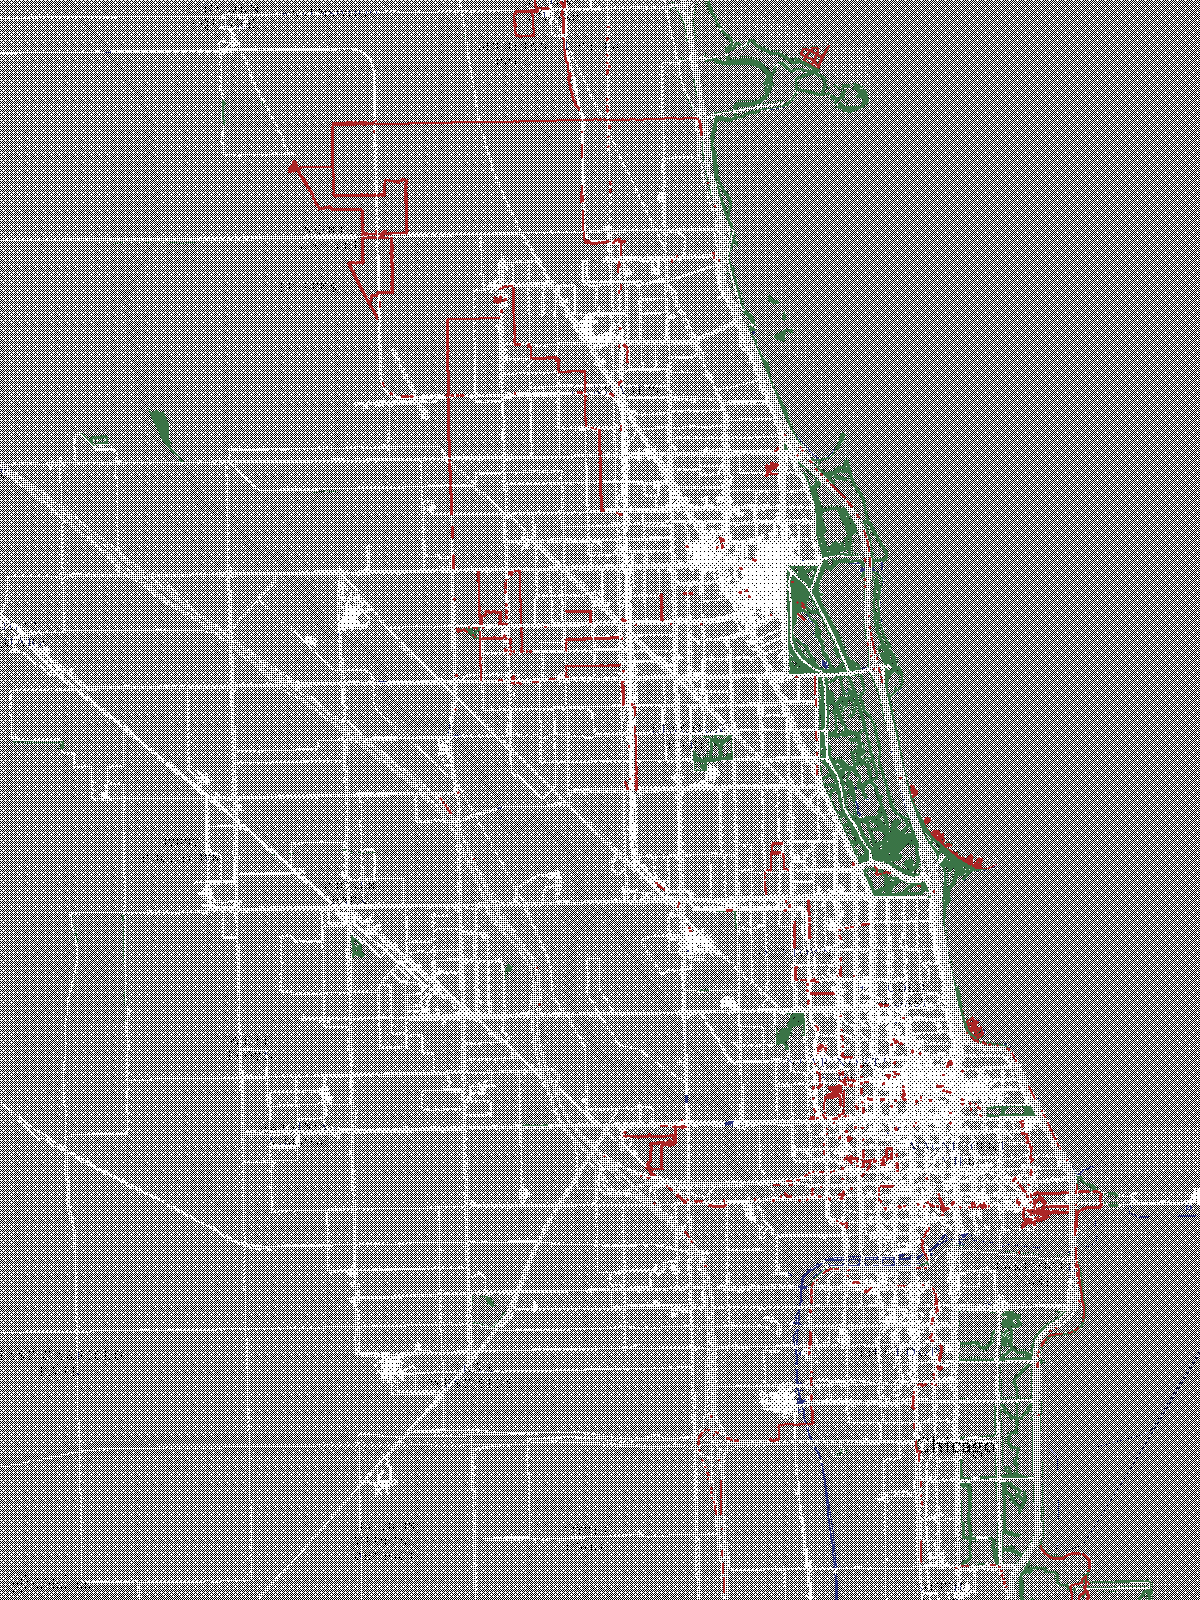
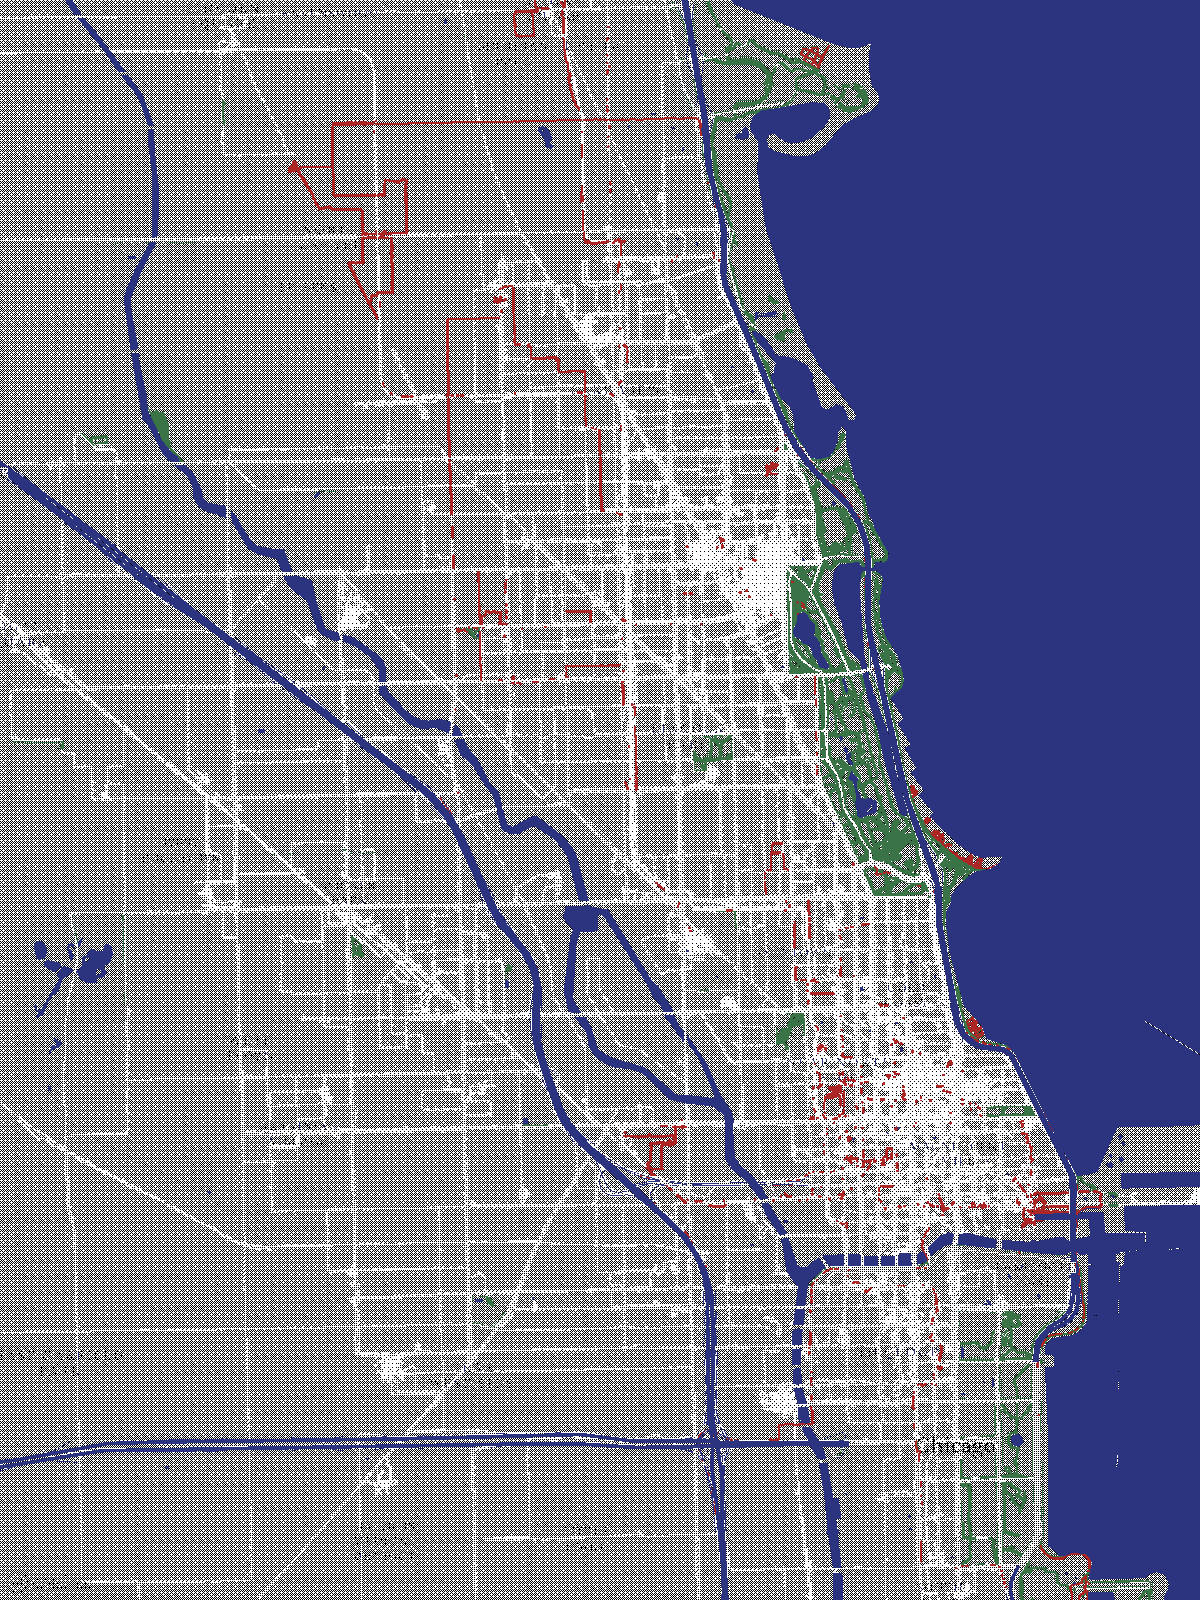
render lake/river as solid blue water (always, regardless of fog)

diff --git a/render_fog.py b/render_fog.py
@@ -41,6 +41,10 @@ DISCOVERY_LOG_PATH = HERE / "snapshots" / "discovery_log.npz"
 COLOR_FOG    = (70, 70, 70)    # NEUTRAL gray overlay for unexplored (no blue cast)
 FOG_OPACITY  = 0.55
 COLOR_RECENT = (210, 35, 35)   # last-30-day exploration tint
+COLOR_WATER  = (64, 110, 180)  # solid blue painted over all water (lake/river)
+# Water is detected in the base map by its teal-cyan hue and always shown blue
+# (no fog over it) — a lake reads as water regardless of "exploration".
+WATER_HUE_LO, WATER_HUE_HI, WATER_SAT_MIN = 100, 150, 25
 
 SSAA, SSAA_THRESH = 4, 20
 RECENT_DAYS = 30
@@ -141,7 +145,16 @@ def render(data_dir, out_path):
 
     if not BASE_MAP_PATH.exists():
         raise FileNotFoundError(f"Base map missing: {BASE_MAP_PATH}")
-    base = np.array(Image.open(BASE_MAP_PATH).convert("RGB"), dtype=np.float32)
+    base_img = Image.open(BASE_MAP_PATH).convert("RGB")
+    base = np.array(base_img, dtype=np.float32)
+
+    # Detect water in the base map by its teal-cyan hue (the lake + river).
+    bhsv = np.array(base_img.convert("HSV"))
+    water_mask = (
+        (bhsv[:, :, 0] >= WATER_HUE_LO) & (bhsv[:, :, 0] <= WATER_HUE_HI)
+        & (bhsv[:, :, 1] >= WATER_SAT_MIN)
+    )
+    log.info(f"Water: {int(water_mask.sum()):,} px")
 
     # Fog: dark overlay where NOT explored
     fog_alpha = (FOG_OPACITY * (1.0 - explored))[:, :, np.newaxis]
@@ -151,6 +164,9 @@ def render(data_dir, out_path):
     if recent is not None:
         a = recent[:, :, np.newaxis]
         out = out * (1.0 - a) + np.array(COLOR_RECENT, dtype=np.float32) * a
+
+    # Water is always solid blue (painted last, over the fog) — a lake is a lake.
+    out[water_mask] = np.array(COLOR_WATER, dtype=np.float32)
 
     out = np.clip(out, 0, 255).astype(np.uint8)
     out_path = Path(out_path)